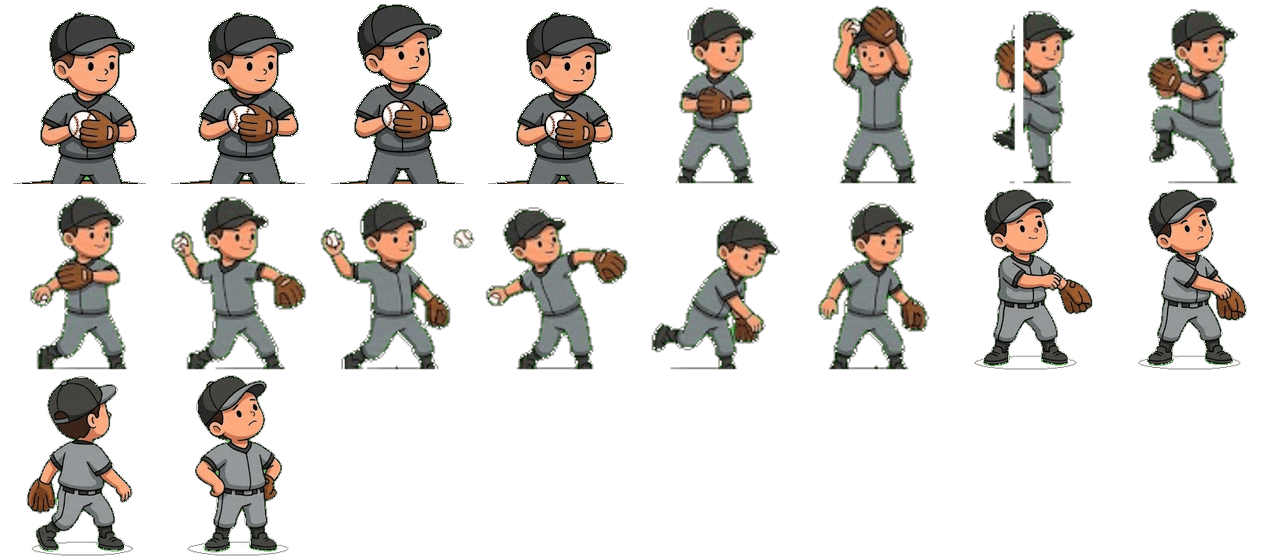
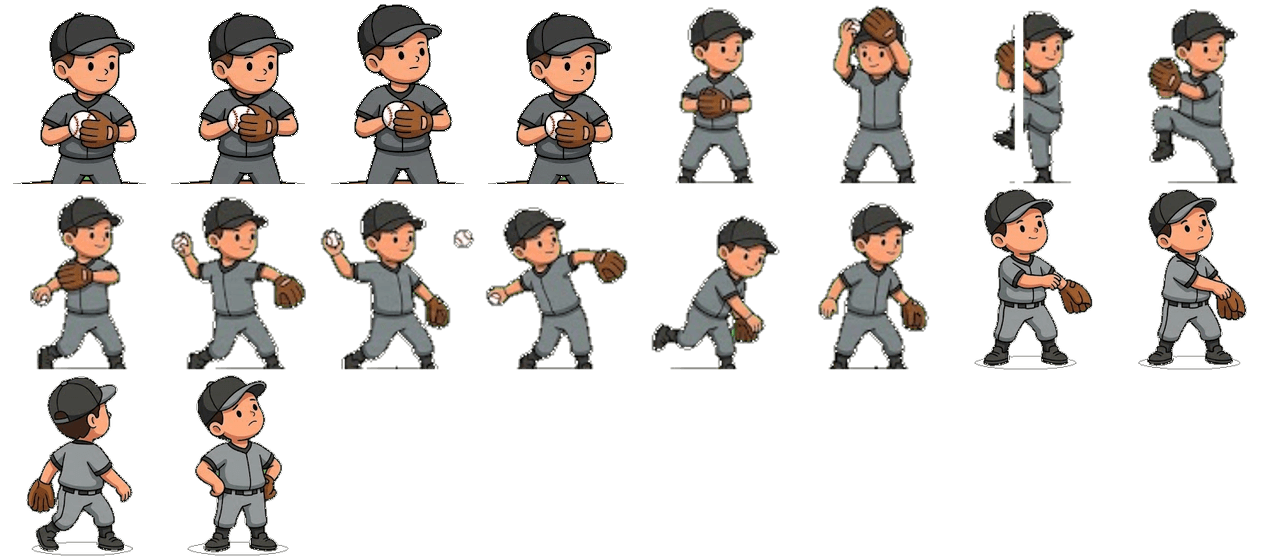
Art: despill green halo on pitcher outline (pack-art despillEdges) (#32)

Changed region(s): [[0.5519, 0.5789, 0.5825, 0.6093]]

diff --git a/scripts/pack-art/pack-art.test.ts b/scripts/pack-art/pack-art.test.ts
@@ -3,7 +3,7 @@ import { existsSync, readFileSync, readdirSync, statSync } from 'node:fs'
 import { join } from 'node:path'
 import { describe, expect, it } from 'vitest'
 // @ts-expect-error plain .mjs build script, no types
-import { alignFrames, batterLayer, blobs, img, keyGreen, mergeSlivers, packAtlas, sliceSheet } from './lib.mjs'
+import { alignFrames, batterLayer, blobs, despillEdges, img, keyGreen, mergeSlivers, packAtlas, sliceSheet } from './lib.mjs'
 
 type Im = { width: number; height: number; data: Uint8ClampedArray }
 const solid = (w: number, h: number, rgb: [number, number, number]): Im => {
@@ -17,6 +17,16 @@ const paint = (im: Im, x0: number, y0: number, w: number, h: number, rgb: [numbe
 const alpha = (im: Im, x: number, y: number) => im.data[(y * im.width + x) * 4 + 3]
 
 describe('pack-art helpers', () => {
+  it('despillEdges neutralizes a green halo near transparency but keeps interior green', () => {
+    const im = solid(10, 1, [0, 255, 0])
+    paint(im, 1, 0, 9, 1, [40, 90, 40])
+    im.data[3] = 0
+    despillEdges(im, 3)
+    const g = (x: number) => im.data[x * 4 + 1]
+    expect([g(1), g(2), g(3)]).toEqual([40, 40, 40])
+    expect(g(5)).toBe(90)
+  })
+
   it('keys #00FF00 but keeps grass green and strips spill at the edge', () => {
     const im = solid(7, 1, [10, 250, 5])
     paint(im, 1, 0, 1, 1, [120, 200, 100]) // fringe touching the key
